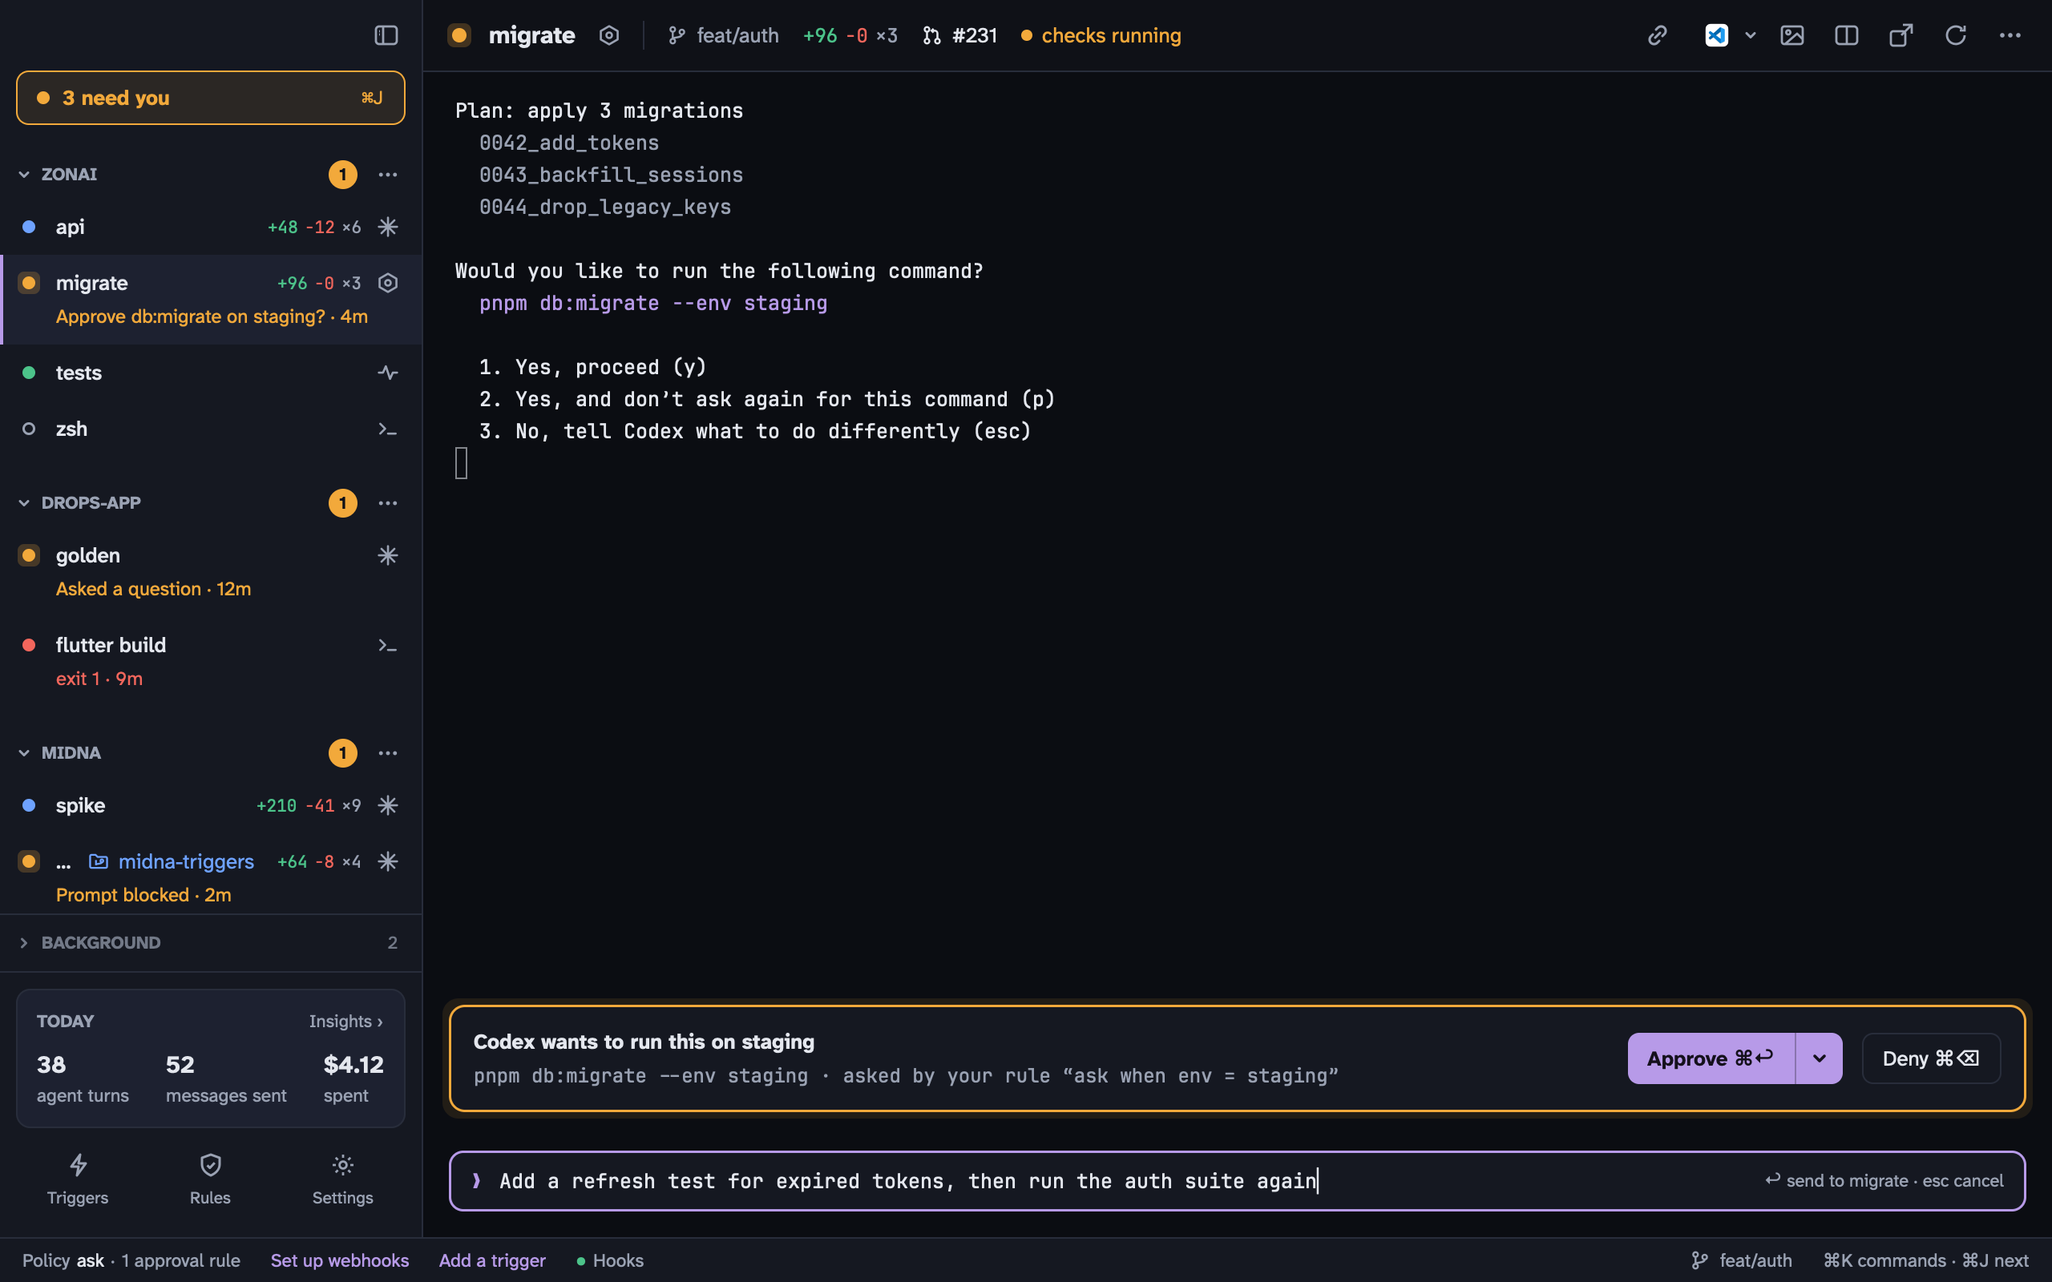
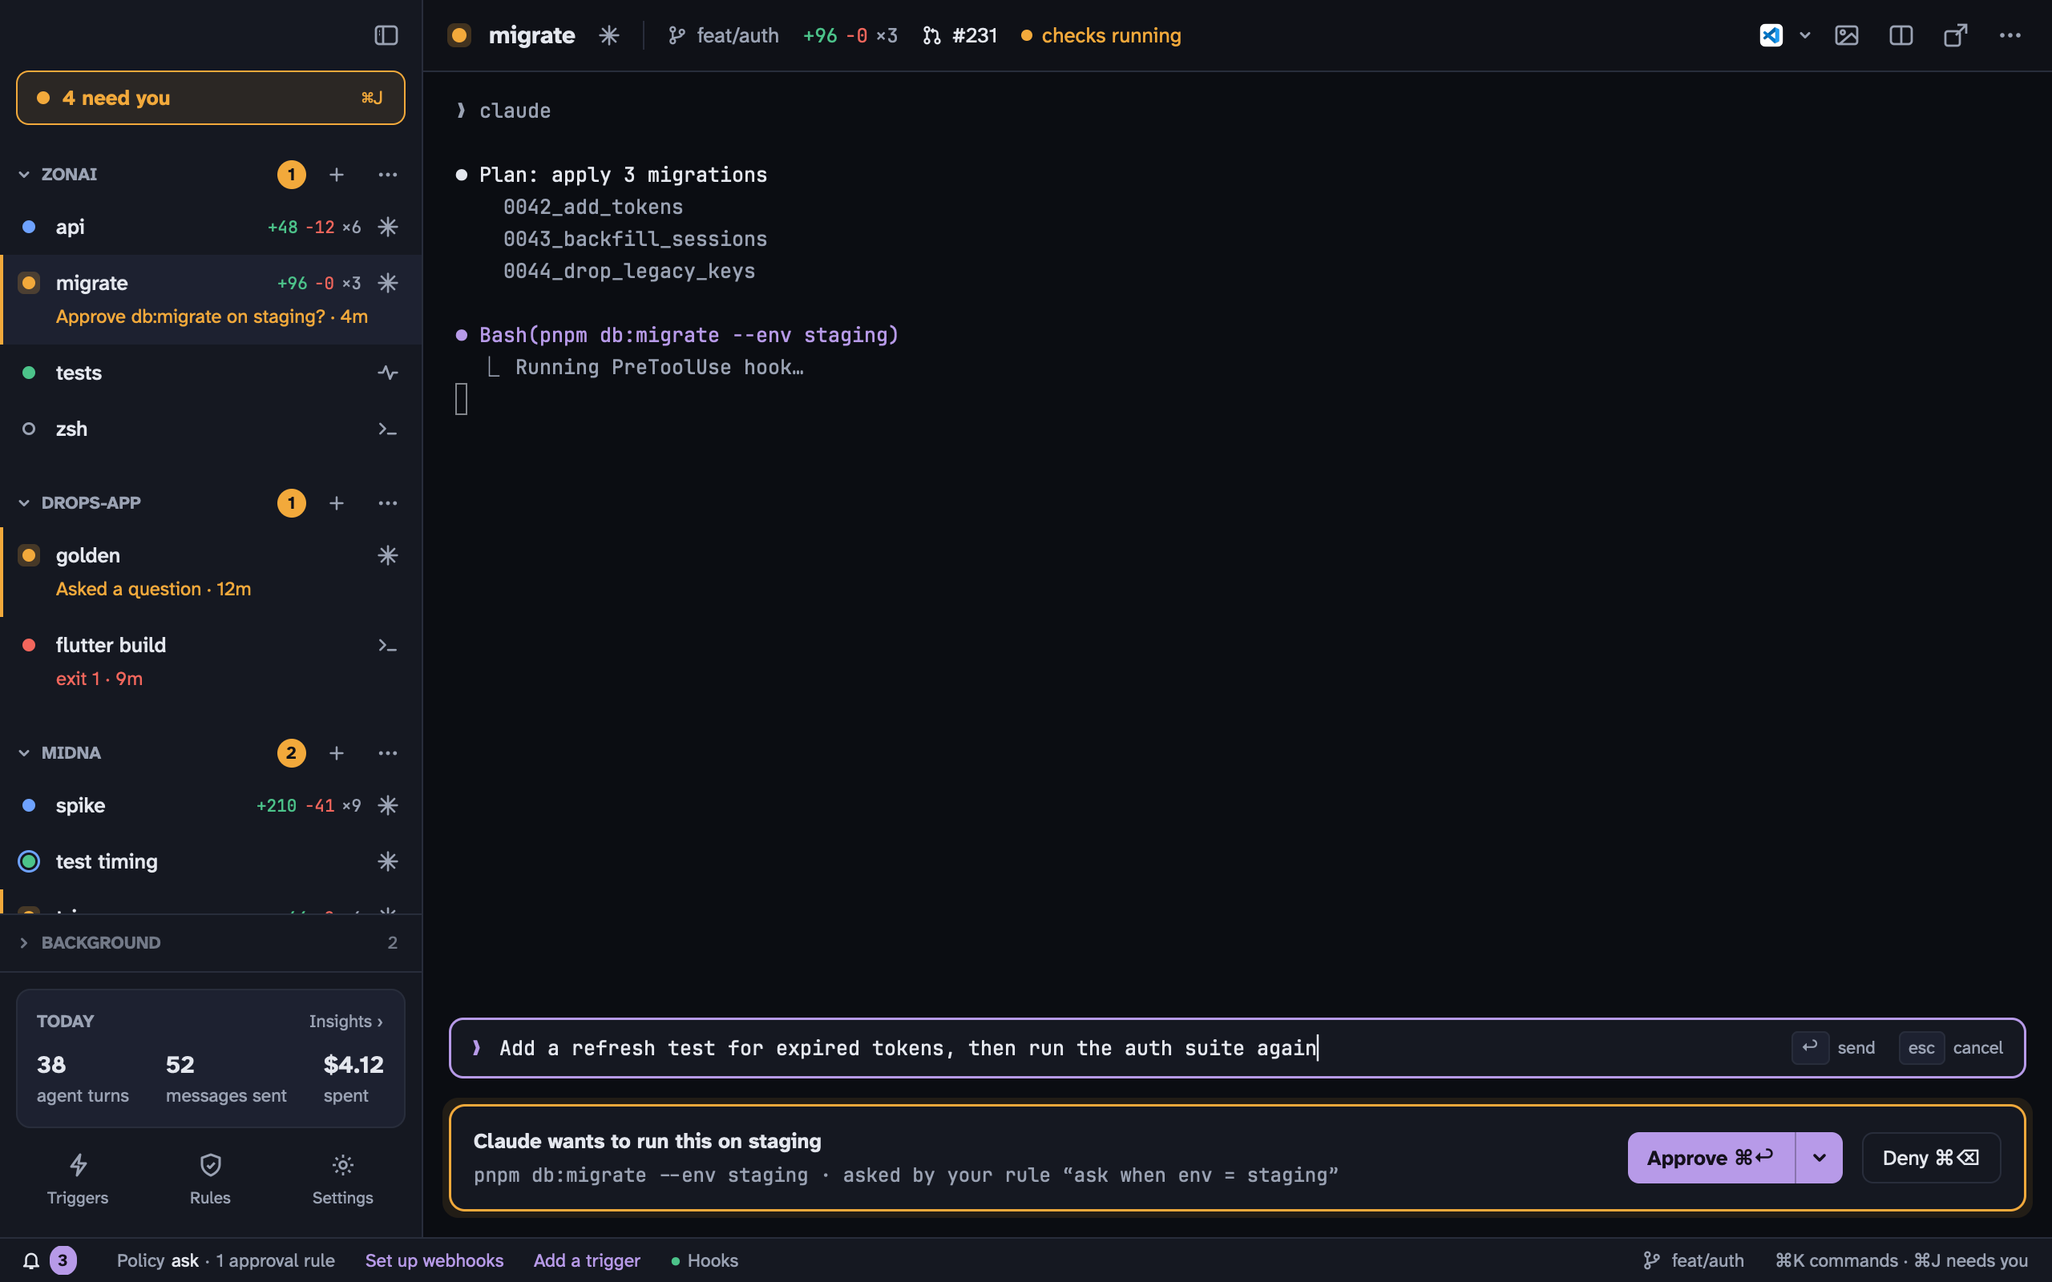
Review and fix the Midna marketing site (#164)
* fix(site): act on the marketing review

Add a privacy page, share tags and a 1200x630 share image on every page,
JSON-LD, robots.txt and sitemap dates. Fix the changelog's two H1s and the
download page's static HTML, and label the example data.

Narrow the approvals copy to Claude Code: a live run showed Codex's prompts
stay in its terminal. The sample terminal is now a Claude session, so the
rerendered screenshots show what really happens.

* fix(site): say how long data is kept and inline small stylesheets

The privacy page now lists what cleanup sends and how long midna keeps data.
Home and download no longer wait on a stylesheet before their first paint.

---------

diff --git a/site/src/site.ts b/site/src/site.ts
@@ -5,3 +5,8 @@ export const DOWNLOAD = '/download/';
 export const RELEASES = `${REPO}/releases/latest`;
 export const ISSUES = `${REPO}/issues`;
 export const NEW_ISSUE = `${REPO}/issues/new/choose`;
+// Shown when a page is shared. A versioned name, so a new image isn't hidden by caches.
+export const SHARE_IMAGE = '/share-v1.png';
+export const SHARE_IMAGE_WIDTH = 1200;
+export const SHARE_IMAGE_HEIGHT = 630;
+export const SHARE_IMAGE_ALT = 'The midna window with example data: projects and terminals in the sidebar, and a Claude Code terminal running a migration';

diff --git a/crates/midna-app/src/backend/fake.rs b/crates/midna-app/src/backend/fake.rs
@@ -240,7 +240,7 @@ impl FakeBackend {
                     "p_zonai1",
                     "migrate",
                     Agent,
-                    Some(Codex),
+                    Some(Claude),
                     NeedsYou,
                     Some("Approve db:migrate on staging?"),
                     4,
@@ -284,9 +284,9 @@ impl FakeBackend {
                 session_id: Some("a1f00002".into()),
                 project_id: Some("p_zonai1".into()),
                 kind: NeedsYouKind::Approval,
-                title: "Codex wants to run this on staging".into(),
+                title: "Claude wants to run this on staging".into(),
                 detail: "asked by your rule “ask when env = staging”".into(),
-                asked_by: Actor { kind: "agent".into(), session: Some("a1f00002".into()), name: Some("codex".into()) },
+                asked_by: Actor { kind: "agent".into(), session: Some("a1f00002".into()), name: Some("claude".into()) },
                 created_at: ago(4),
                 approval: Some(ApprovalRequest {
                     action: PolicyAction {
@@ -389,17 +389,15 @@ impl FakeBackend {
             (
                 "a1f00002",
                 transcript(&[
-                    ("", "Plan: apply 3 migrations"),
-                    (DIM, "  0042_add_tokens"),
-                    (DIM, "  0043_backfill_sessions"),
-                    (DIM, "  0044_drop_legacy_keys"),
+                    (DIM, "❯ claude"),
                     ("", ""),
-                    ("", "Would you like to run the following command?"),
-                    (ACC, "  pnpm db:migrate --env staging"),
+                    ("", "⏺ Plan: apply 3 migrations"),
+                    (DIM, "    0042_add_tokens"),
+                    (DIM, "    0043_backfill_sessions"),
+                    (DIM, "    0044_drop_legacy_keys"),
                     ("", ""),
-                    ("", "  1. Yes, proceed (y)"),
-                    ("", "  2. Yes, and don’t ask again for this command (p)"),
-                    ("", "  3. No, tell Codex what to do differently (esc)"),
+                    (ACC, "⏺ Bash(pnpm db:migrate --env staging)"),
+                    (DIM, "  ⎿  Running PreToolUse hook…"),
                 ]),
             ),
             ("a1f00003", transcript(&[(DIM, "cargo watch -x test"), (OK, "   ok  auth::refresh"), ("", "412 passed; 0 failed")])),

diff --git a/docs/marketing/page-brief.md b/docs/marketing/page-brief.md
@@ -1,0 +1,44 @@
+# Page brief
+
+- Type and state: Product site for a free, open source Mac app, live on a public beta. Stable hasn't shipped (newest release v0.1.0-beta.46, checked 2026-11-06).
+- Audience: Developers on Apple Silicon Macs who already run Claude Code or Codex in a terminal, often several at once, and know what an approval prompt is.
+- The page's one job: Get that developer to download midna and try it on a real project.
+- Primary CTA: "Download for Mac", to `/download/`. Wording and target wait on the download decision below.
+- Secondary action: "Read the docs", to `/docs/`.
+- Search phrases: terminal for Claude Code; macOS terminal for AI agents; run multiple Claude Code sessions; approve Claude Code prompts in one place; Claude Code terminal app Mac.
+- Objections: Does it work with my agent? Will my shells die when it updates? Is it safe to let agents drive my terminal? Is it signed? What does it send, and to whom? Is it free?
+- Analytics and cookies: none. Fonts are served from the site. The download page calls `api.github.com` from the browser.
+
+## Claims
+
+Checked 2026-11-06.
+
+| Claim on the page | Evidence |
+| --- | --- |
+| Native macOS terminal for Claude Code and Codex | `crates/midna-app`, `README.md` |
+| Agents open and read terminals through a CLI and MCP server | `midna capabilities`; `site/src/content/docs/docs/agents.md` |
+| Claude Code approvals land in one queue, approve and deny from midna | Real dialog fixture `crates/midnad/tests/fixtures/claude-2.1.288-permission.screen.txt`; `docs/DECISIONS.md` |
+| Codex's approval prompts stay in its terminal | Live run with codex-cli 0.163.0, `approval_policy="on-request"`, temp daemon: prompt shown, status stayed `working`, `midna needs` empty for over a minute. Backlog B774 |
+| Approving for 15 minutes, 1 hour, the session or always adds a rule | `approve-menu.png`, a real render; `docs/DECISIONS.md` |
+| Shells keep running when the app restarts or updates | Daemon owns the shells: `AGENTS.md`, `README.md` |
+| Free and open source (MIT) | `LICENSE`, Copyright 2026 Morgan Hunt |
+| Apple Silicon | arm64-only DMG: `.github/workflows/release.yml:155` |
+| macOS 12 or later | `LSMinimumSystemVersion` 12.0 in `packaging/build-app.sh` and the shipped `Info.plist`. Never run on macOS 12: see below |
+| Signed, notarized, updates itself | beta.46 DMG: `spctl` accepted as Notarized Developer ID (Developer ID Application: Morgan Hunt, U2G2XV3688); `stapler validate` passes on the DMG and `Midna.app`. Updates: `crates/midna-app/src/updater.rs` |
+| Eight built-in themes | `crates/midna-proto/src/themes.rs` `BUILTIN_IDS` |
+| Triggers can arrive by webhook over Tailscale Funnel | `crates/midnad/src/webhooks/`, but turning Funnel on hasn't been run for real: see below |
+| Privacy page: no account, analytics or crash reporting | Source search of `crates/` for sentry, telemetry, posthog, amplitude, crash reporting: nothing. `ureq` only in `updater.rs` |
+| Privacy page: update check every 6 hours | `CHECK_EVERY` in `crates/midna-app/src/updater.rs` |
+| Privacy page: what link previews, the network check, cleanup and webhooks send | `crates/midna-app/src/terminal/link_preview.rs`; `PROBE_HOST` in `crates/midnad/src/resume.rs`; `crates/midna-proto/src/cleanup.rs`; `webhooks.path` in `crates/midna-proto/src/settings.rs` (off by default). Cleanup is on by default |
+| Privacy page: how long data is kept | `summary.keep_days` default 7 in `crates/midna-proto/src/settings.rs`; `RUNS` 100 in `crates/midnad/src/cleanup.rs`; the event log's archives are never deleted (`crates/midnad/src/eventlog.rs`) |
+| Privacy page: what cleanup sends | `prompt` in `crates/midnad/src/cleanup.rs` |
+| Screenshots | Real renders of midna with the fake backend's sample data, made with the `snapshot` feature (`docs/DECISIONS.md:150`), not recreations. The hero is labelled "Example data". `main`, `main-light`, `approve-menu`, `command-bar`, `needs-you` and `composer` were rendered 2026-11-06 at 1280x800 @2x with `MIDNA_BACKEND=fake MIDNA_SELECT=a1f00002` |
+
+Structured data uses `Organization` for midna, because naming Morgan as a `Person` is their call.
+
+## Waiting on a person
+
+- Morgan: decide what Download does. Every release is a prerelease, so `/releases/latest` is a 404 and the page ends at "midna isn't out yet". Offer the beta, cut a stable release, or call the site pre-launch.
+- Morgan: run midna once on macOS 12, or raise the stated minimum to a version it has run on.
+- Morgan: turn Tailscale Funnel on for real and check a webhook arrives, or drop Funnel from the home page.
+- Morgan: read `/privacy/` and confirm it's what you want to publish under your name.

diff --git a/site/src/content/docs/privacy.md b/site/src/content/docs/privacy.md
@@ -1,0 +1,44 @@
+---
+title: Privacy
+description: What midna and this website keep, what leaves your Mac and where it goes. No account, no analytics, no cookies.
+---
+
+Last updated November 6, 2026.
+
+midna has no account, and neither the app nor this website has analytics, crash reporting or tracking. What you do in midna stays on your Mac unless one of the things listed below sends it somewhere.
+
+midna is made by Morgan Hunt. If you have a question about this page, [open an issue](https://github.com/mrgnhnt96/midna/issues/new/choose).
+
+## What stays on your Mac
+
+Projects, rules, triggers, settings, logs and the event log are kept in `~/Library/Application Support/com.mrgnhnt.midna`. Secrets are kept in the macOS Keychain. Nothing in that folder is uploaded by midna.
+
+midna keeps this until you delete it, with two limits: a project's Summary keeps closed terminals for 7 days (`summary.keep_days`), and cleanup keeps its last 100 runs.
+
+To remove all of it, follow [Uninstall](/docs/install/#uninstall) and delete the folder.
+
+## What the app sends
+
+| What | Where it goes | When | What's sent |
+| --- | --- | --- | --- |
+| Update check | GitHub | Every 6 hours | A request for the channel's update file, with midna's version in the user agent |
+| Link preview | The site you're pointing at | When the pointer rests on a web link in a terminal | A normal request for that page, to show its title and description. Never for local or private addresses |
+| Pull request details | GitHub, through your own `gh` | When a terminal's branch has a pull request, or the pointer rests on a pull request link | What `gh` sends when you run it yourself |
+| Network check | `api.anthropic.com` | While an agent is waiting for the network to come back | A connection attempt only. No data |
+| Cleanup after a terminal closes | Anthropic, through your own Claude account | When an agent terminal closes, if `cleanup.enabled` is on (it is by default) | The terminal's name and folder, the repo, the names of the branches and worktrees to remove, your cleanup rules and your own cleanup items, in a prompt to `cleanup.model`. Nothing runs when there's nothing to clean up. Turn it off in Settings |
+| Webhooks | Whichever path you set up | Only if you turn webhooks on (they're off by default) | Events arrive from GitHub or Bitbucket through the path you chose, such as Tailscale Funnel |
+| Report an issue | GitHub, in your browser | Only when you choose it | A prefilled issue with versions and hardware. Nothing is sent until you submit it. No paths, project names, terminal output or logs |
+
+## Agents
+
+Agents such as Claude Code and Codex are separate programs that you install and sign in to yourself. What you send them goes to their makers under those companies' own terms. midna doesn't send your prompts anywhere else.
+
+Triggers and scripts you add run as you, and they can reach whatever you tell them to.
+
+## This website
+
+This site is hosted on GitHub Pages, so GitHub handles every visit and may keep technical logs, such as IP addresses. See [GitHub's privacy statement](https://docs.github.com/en/site-policy/privacy-policies/github-general-privacy-statement).
+
+The [download page](/download/) asks GitHub's API for the newest release from your browser, and the download itself comes from GitHub.
+
+The site sets no cookies, loads no analytics and serves its own fonts.

diff --git a/README.md b/README.md
@@ -132,15 +132,14 @@ spikes/          proven prototypes the crates grew from
 **Known gaps:**
 - **Same-user limitation.** The human/agent boundary is a guardrail, not authentication against a hostile local process (`docs/SECURITY.md`).
 - **Not run for real:**
-  - Codex approval prompts. The user's config sets `approval_policy="never"`.
   - The Kass AX insert.
   - Turning Tailscale Funnel on.
   - The Keychain secret path.
   - `gh` recovery against GitHub.
-  - Notarization.
   - The `RequiresApproval` login-item flow.
   - The macOS 12 legacy LaunchAgent path.
 - **Startup dialogs aren't surfaced as needs-you:** Claude or Codex folder trust and the hooks review.
+- **Codex approval prompts aren't surfaced as needs-you.** Run live on 2026-11-06 with Codex 0.163.0: the prompt stays in its terminal and the status stays working.
 - **Relay webhook paths** (`self_relay`, `midna_relay`) aren't built.
 - **Trigger filters** are structured only (repo, branch, action, label). There are no expressions.
 - **Packaging gaps:**
@@ -167,7 +166,7 @@ These need you (credentials, your screen, or your accounts). Nothing in this lis
    1. Run `kass-probe … kass-sim 2`.
    2. Expect `role=AXTextArea … Inserted{exact:true}`.
    3. Better still, dictate with the real Kass.
-4. **Live-test Codex approvals.** Your `~/.codex/config.toml` sets `approval_policy="never"`. Use a temp `CODEX_HOME` with `on-request` (or a webhook-started Codex, which now runs `on-request`), and check that the prompt patterns and approve/deny from midna work.
+4. **Surface Codex approvals.** Live-tested on 2026-11-06 with Codex 0.163.0 and `approval_policy="on-request"`: the prompt stays in its terminal, and nothing reaches Needs you. midna starts Codex with `notify` only, which fires at the end of a turn, and the screen check only settles prompts that were already raised.
 5. **Enable Tailscale Funnel** for your tailnet. Then run `midna webhooks configure tailscale_funnel` from the GUI (human only), and point a GitHub webhook at the public URL that `midna webhooks status` shows.
 6. **Decide on `triggers.agent_mode`.** The default is `supervised`, which forces permission prompts on webhook-started agents even though your global Claude config bypasses them. Switch to `inherit` only if you accept that risk. Local triggers (schedules, hooks) use your normal config; to give one trigger's agents their own mode or tools, use `midna triggers update <id> --permission-mode auto --allow-tool <tool>`.
 7. **Grant Accessibility to Midna.app only after reading `docs/SECURITY.md` → "TCC responsibility".** Agents in midna terminals may inherit that grant.

diff --git a/site/src/content/docs/docs/agents.md b/site/src/content/docs/docs/agents.md
@@ -28,12 +28,12 @@ Anything only you can answer goes to **Needs you**. The terminal's row turns ora
 - The terminal you're looking at shows its approval along the bottom. <kbd>⌘</kbd> <kbd>↩</kbd> approves, <kbd>⌘</kbd> <kbd>⌫</kbd> denies.
 - <kbd>⌘</kbd> <kbd>J</kbd> goes through everything waiting, one card at a time, oldest first.
 
-![A Needs you card for an agent's question, with the remaining items listed below](../../../assets/screens/needs-you.png)
+![The Needs you screen: everything waiting listed on the left, with an agent's question open on the right](../../../assets/screens/needs-you.png)
 
 | Item | What it is | <kbd>⌘</kbd> <kbd>↩</kbd> | <kbd>⌘</kbd> <kbd>⌫</kbd> |
 | --- | --- | --- | --- |
 | Approval | A rule said **ask**, or an agent asked for a human-only action | Approve | Deny |
-| Permission prompt | Claude Code or Codex is showing its own permission dialog | Approve | Deny |
+| Permission prompt | Claude Code is showing its own permission dialog. Codex's approval prompts aren't queued yet: answer them in its terminal. | Approve | Deny |
 | Blocked | An agent can't continue without you (`midna attention`) | I've done it | Dismiss |
 | Failed | A monitor or agent exited with an error | Restart | Dismiss |
 | Rule removal | An agent asked you to remove a rule | Remove | Keep |

diff --git a/docs/STATUS-agents.md b/docs/STATUS-agents.md
@@ -91,9 +91,9 @@
   - `Frame` carries `decckm` / `bracketed_paste` but not the kitty flags, and Enter from the GUI as a bare `\r` won't submit to Claude.
   - Either add the flags to `Frame`, or use libghostty's key encoder with `Terminal::kitty_keyboard_flags`.
   - I didn't touch proto or the app.
-- **Codex approvals weren't exercised live.**
-  - The user's `~/.codex/config.toml` sets `approval_policy="never"`, and midna doesn't override it.
-  - The Codex prompt patterns come from the spike.
+- **Codex approvals don't reach Needs you.**
+  - Run live on 2026-11-06 with Codex 0.163.0 and `approval_policy="on-request"`: the prompt stayed in its terminal, the status stayed `working`, and `midna needs` stayed empty.
+  - midna starts Codex with `notify` only, and the screen check only settles prompts that were already raised.
   - Codex has no cost signal, and interrupted Codex turns count no message because no notify arrives.
 - **Startup dialogs aren't surfaced as needs-you.** Claude's folder trust and Codex's folder trust or hooks review leave the session `idle`.
 - **Native prompts won't appear for this user in normal use.** Their global `defaultMode` is `bypassPermissions`, so in practice only midna rules gate tools. I forced `default` for testing through the temp project's `.claude/settings.local.json`.

diff --git a/site/src/content/docs/docs/index.md b/site/src/content/docs/docs/index.md
@@ -5,7 +5,7 @@ description: What midna is, how it fits together, and how to get started.
 
 midna is a macOS terminal for working with AI agents like Claude Code and Codex. You use it like any terminal: projects in a sidebar, tabs, splits. Agents can use it too. Through the `midna` CLI or its MCP server they can open terminals you can watch, read other terminals, add rules and draft triggers. The few decisions that stay yours, like approving a request or removing a rule, come to you in one queue called **Needs you**.
 
-![The midna window: projects and terminals in the sidebar, a Codex terminal asking to run a migration, and the approval along the bottom](../../../assets/screens/main.png)
+![The midna window: projects and terminals in the sidebar, a Claude Code terminal asking to run a migration, and the approval along the bottom](../../../assets/screens/main.png)
 
 ## How it fits together
 
